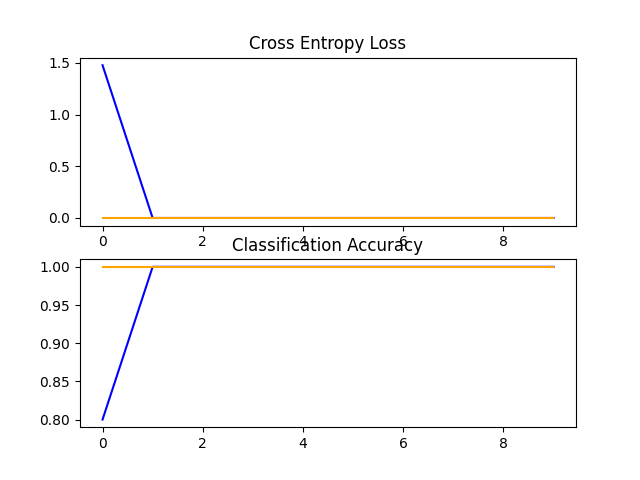
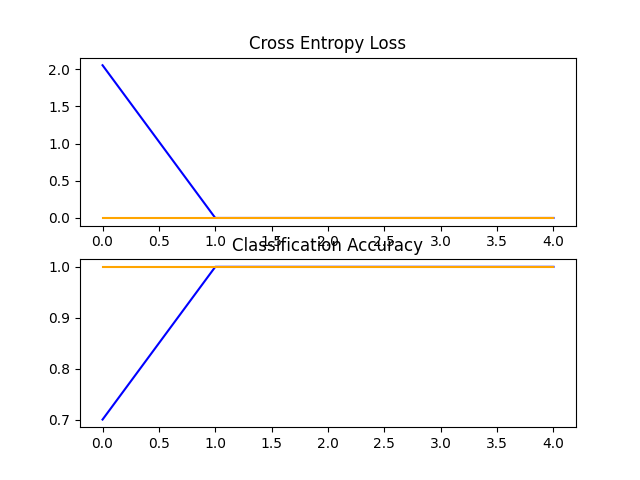
final

diff --git a/CNN_Classification.py b/CNN_Classification.py
@@ -72,7 +72,7 @@ def run_test_NOaug(model_p, f_name):
 		class_mode='binary', target_size=(200, 200))
 	# fit model
 	history = model.fit(train_it, steps_per_epoch=len(train_it),
-		validation_data=test_it, validation_steps=len(test_it), epochs=10, verbose=0)
+		validation_data=test_it, validation_steps=len(test_it), epochs=20, verbose=0)
 	# evaluate model
 	_, acc = model.evaluate(test_it, steps=len(test_it), verbose=0)
 	print('> %.3f' % (acc * 100.0))
@@ -93,7 +93,7 @@ def run_test_WithAug(model_a,f_name):
 		class_mode='binary', batch_size=64, target_size=(200, 200))
 	# fit model
 	history = model.fit_generator(train_it, steps_per_epoch=len(train_it),
-		validation_data=test_it, validation_steps=len(test_it), epochs=50, verbose=0)
+		validation_data=test_it, validation_steps=len(test_it), epochs=20, verbose=0)
 	# evaluate model
 	_, acc = model.evaluate_generator(test_it, steps=len(test_it), verbose=0)
 	print('> %.3f' % (acc * 100.0))
@@ -116,7 +116,7 @@ def run_test_Transfer(model_x,f_name):
 		class_mode='binary', target_size=(200, 200))
 	# fit model
 	history = model.fit_generator(train_it, steps_per_epoch=len(train_it),
-		validation_data=test_it, validation_steps=len(test_it), epochs=10, verbose=1)
+		validation_data=test_it, validation_steps=len(test_it), epochs=5, verbose=1)
 	# evaluate model
 	_, acc = model.evaluate_generator(test_it, steps=len(test_it), verbose=0)
 	print('> %.3f' % (acc * 100.0))

diff --git a/Question7.md b/Question7.md
@@ -6,10 +6,16 @@
 
     >!['VGG1'](VGG1_plot.png)
 
+    > Accuracy: 95 % (epochs=20)
+
 2. **VGG1 graph with Data Augmentation:**
 
     >!['VGG2'](VGG_with_Aug_plot.png)
 
+    > Accuracy: 90%  (epochs=20)
+
 3. **Transfer Learning:**
 
     >!['Transfer'](Transfer_plot.png)
+
+    > Accuracy: 100%  (epoch=5)
